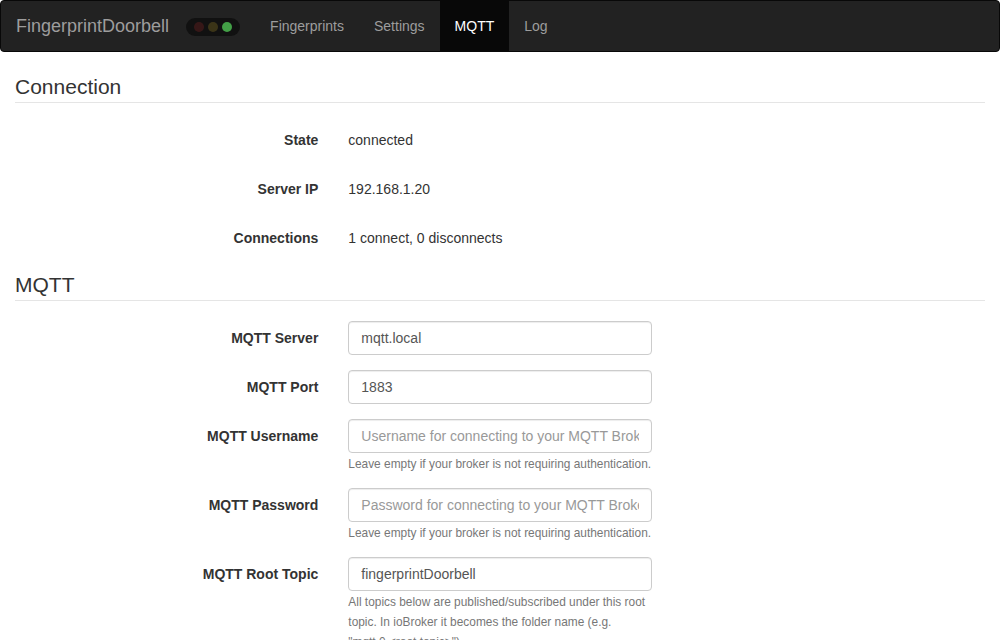
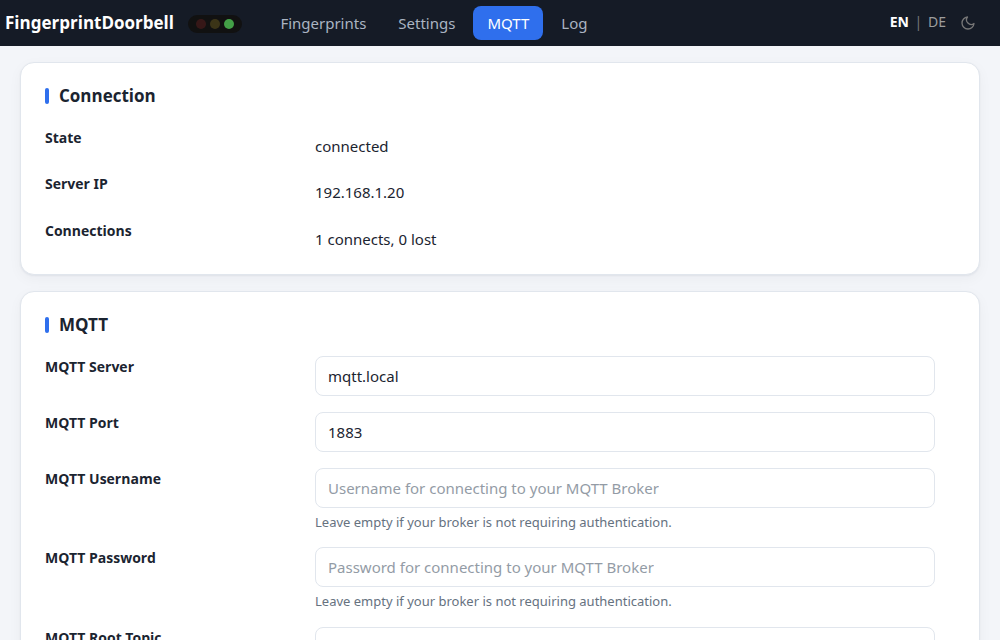
v0.13.0: new screenshots, sensor dot color on the Log page
Adds tools/screenshots.py, which renders the pages with sample values in
headless Chromium and writes the README screenshots and gallery
thumbnails. The big sensor dot on the Log page shows the state color
again (it took the text color with the new style). README describes the
new page layout.

diff --git a/data/style.css b/data/style.css
@@ -146,6 +146,8 @@ input[type="file"]::file-selector-button:hover { border-color: var(--accent); }
 .alert { border: 1px solid var(--border); border-left-width: 4px; border-radius: 10px; padding: 12px 16px; margin: 16px auto; background: var(--card); color: var(--text); }
 .alert-custom { background: var(--accent-soft); border-color: var(--accent); }
 .alert-success { border-left-color: var(--ok); } .alert-warning { border-left-color: var(--warn); } .alert-danger { border-left-color: var(--danger); } .alert-info { border-left-color: var(--info); }
+/* big sensor state on the Log page: the dot has the color of the state */
+.alert-success #sensorDot { background: var(--ok) !important; } .alert-warning #sensorDot { background: var(--warn) !important; } .alert-danger #sensorDot { background: var(--danger) !important; }
 .table { color: var(--text); margin-bottom: 12px; }
 .table > thead > tr > th { border-bottom: 1px solid var(--border); color: var(--muted); font-size: 12px; font-weight: 600; text-transform: uppercase; letter-spacing: .04em; }
 .table > tbody > tr > td, .table > tbody > tr > th { border-top: 1px solid var(--border); padding: 9px 8px; }

diff --git a/tools/screenshots.py b/tools/screenshots.py
@@ -1,0 +1,151 @@
+#!/usr/bin/env python3
+"""Creates the screenshots of the web interface for the README (doc/images/web-*.png and thumb-*.png).
+
+The pages in data/ are rendered with sample values instead of the %PLACEHOLDERS% of the firmware and
+photographed with headless Chromium, so no device is needed.
+
+Usage (from the repository root):  python3 tools/screenshots.py [--lang de] [--theme dark] [--out DIR]
+"""
+import argparse, functools, gzip, http.server, os, re, shutil, subprocess, sys, tempfile, threading
+
+from PIL import Image
+
+LIGHT = ('<span id="sensorLight" style="display:inline-flex;align-items:center;vertical-align:middle;margin-left:12px;'
+         'padding:4px 6px;border-radius:9px;background:#111">' +
+         ''.join('<span style="display:inline-block;width:10px;height:10px;border-radius:5px;margin:0 2px;background:%s;opacity:%s"></span>'
+                 % (c, o) for c, o in (('#e53935', '.18'), ('#fdd835', '.18'), ('#43a047', '1'))) + '</span>')
+
+def options(values, selected):
+    return ''.join('<option value="%s"%s>%s</option>' % (v, ' selected' if v == selected else '', label) for v, label in values)
+
+GPIO = [(str(p), 'GPIO %d' % p) for p in (4, 13, 16, 17, 18, 19, 21, 22, 23, 25, 26, 27, 32, 33)]
+
+SAMPLE = dict(
+    HOSTNAME='FingerprintDoorbell', SENSOR_LIGHT=LIGHT, VERSIONINFO='', UPTIME='Uptime 2 days 04:12:33',
+    FINGER_COUNT='3',
+    FINGERLIST='<option value="1" selected data-name="Alice" data-days="127" data-from="0" data-to="1440">1 - Alice</option>'
+               '<option value="2" data-name="Bob#" data-days="127" data-from="0" data-to="1440">2 - Bob#</option>'
+               '<option value="5" data-name="Cleaner" data-days="4" data-from="480" data-to="720">5 - Cleaner [We 08:00-12:00]</option>',
+    SENSOR_STATE='connected (since 2 h, 0 losses)', SENSOR_ALERT='success',
+    IP_ADDRESS='192.168.1.57', MAC_ADDRESS='24:6F:28:AA:BB:CC', GATEWAY='192.168.1.1', DNS_SERVER='192.168.1.1',
+    SSID='IoT', BSSID='9C:A2:F4:11:22:33', WIFI_CHANNEL='6', RSSI='-61 dBm', WIFI_LOST='0',
+    WIFI_REASON='- (0 disconnect events)', MQTT_SERVER='mqtt.local', MQTT_SERVER_IP='192.168.1.20',
+    MQTT_STATE='connected', MQTT_STATS='1 connects, 0 lost', CHIP='ESP32-D0WDQ6 rev 1', CPU='240 MHz',
+    CHIP_TEMP='48 °C', FLASH_SIZE='4194304', FREE_HEAP='182344', RESET_REASON='Software',
+    EVENTLIST='<tr><td>2026-10-28 14:02:11</td><td>Match</td><td>#1</td><td>Alice, confidence 187</td></tr>'
+              '<tr><td>2026-10-28 13:40:52</td><td>Ring</td><td></td><td></td></tr>'
+              '<tr><td>2026-10-28 09:12:40</td><td>Access denied</td><td>#5</td><td>Cleaner: outside of allowed time window, confidence 143</td></tr>'
+              '<tr><td>2026-10-28 07:55:01</td><td>Boot</td><td></td><td>firmware 0.13.0</td></tr>',
+    LOCKOUT_STATUS='<span class="label label-success">No lockout</span> 0 recent failed attempts',
+    LOGMESSAGES_FULL='[28.10.2026 07:55:01]: Started<br>[28.10.2026 07:55:12]: WiFi connected (11 s)<br>'
+                     '[28.10.2026 07:55:13]: MQTT connected<br>[28.10.2026 14:02:11]: Match: Alice (ID 1, confidence 187)<br>',
+    WEB_PASSWORD='********', NTP_SERVER='pool.ntp.org', TIMEZONE='CET-1CEST,M3.5.0,M10.5.0/3',
+    TIMEZONE_OPTIONS=options([('Europe/Berlin', 'Europe/Berlin'), ('Europe/Vienna', 'Europe/Vienna'), ('custom', 'Custom (POSIX string)')], 'Europe/Berlin'),
+    LOCAL_TIME='2026-10-28 14:05:00', NIGHT_ENABLED='checked', NIGHT_START='22:00', NIGHT_END='06:00',
+    NIGHT_STATUS='not active now', FAIL_MAX='5', FAIL_WINDOW='60', LOCKOUT_TIME='300', RING_COOLDOWN='5',
+    RADAR_ENABLED='', RADAR_STATUS='disabled', RADAR_HIGH_SELECTED='selected', RADAR_LED_WAKE='',
+    RADAR_PIN_OPTIONS=options([(str(p), 'GPIO %d' % p) for p in (25, 26, 27, 32, 33, 34, 35)], '32'),
+    GPIO_RX_OPTIONS=options(GPIO, '16'), GPIO_TX_OPTIONS=options(GPIO, '17'), GPIO_TOUCH_OPTIONS=options([('5', 'GPIO 5')] + GPIO, '5'),
+    GPIO_BELL_OPTIONS=options(GPIO, '19'), GPIO_OPENER_OPTIONS=options(GPIO, '23'),
+    TOUCH_RING_ACTIVE_COLOR_2='selected', TOUCH_RING_ACTIVE_SEQUENCE_1='checked', SCAN_COLOR_1='selected', MATCH_COLOR_3='selected',
+    MQTT_PORT='1883', MQTT_ROOTTOPIC='fingerprintDoorbell', MQTT_CLIENTID='FingerprintDoorbell', MQTT_KEEPALIVE='15',
+    HA_DISCOVERY='checked', MQTT_RETAIN='', MQTT_PUBLISHLOG='checked', PAYLOAD_ON='on', PAYLOAD_OFF='off',
+    T_LWT='LWT', T_RING='ring', T_MATCHID='matchId', T_MATCHNAME='matchName', T_MATCHCONF='matchConfidence',
+    T_LASTLOG='lastLogMessage', T_IGNORERING='ignoreTouchRing', T_LEDRING='ledRing', T_OPENDOOR='openDoor',
+    WIFI_SSID='IoT', WIFI_PASSWORD='********')
+
+# answers of the device for the status requests of the pages
+FETCH_STUB = '''<script>
+window.fetch = function (url) {
+  var data = {};
+  if (String(url).indexOf('/sensor/status') === 0)
+    data = { state: 'green', text: 'connected (since 2 h, 0 losses)', pin: false, ignore: false, led: true, color: 2, seq: 1, reason: 'idle, waiting for a touch' };
+  else if (String(url).indexOf('/serial/log') === 0)
+    data = { next: 0, more: false, text: '' };
+  else
+    return new Promise(function () {});
+  return Promise.resolve({ json: function () { return Promise.resolve(data); } });
+};
+window.EventSource = function () { this.addEventListener = function () {}; };
+</script>'''
+
+PAGES = [  # page, published name, window width, crop height of the thumbnail
+    ('index', 'fingerprints', 1000, 640),
+    ('settings', 'settings', 1000, 640),
+    ('mqtt', 'mqtt', 1000, 640),
+    ('log', 'log', 1000, 640),
+    ('wificonfig', 'wificonfig', 480, 0),
+]
+
+
+def render(src, dst, lang, theme, version):
+    values = dict(SAMPLE, LANG=lang, VERSIONINFO=version)
+    for page, _, _, _ in PAGES:
+        html = open(os.path.join(src, page + '.html'), encoding='utf-8').read()
+        html = re.sub(r'%([A-Z0-9_]+)%', lambda m: values.get(m.group(1), ''), html)
+        html = html.replace('<head>', '<head>' + FETCH_STUB, 1)
+        if theme:
+            html = html.replace('<head>', '<head><script>try{localStorage.setItem("theme","%s")}catch(e){}</script>' % theme, 1)
+        open(os.path.join(dst, page + '.html'), 'w', encoding='utf-8').write(html)
+    for name in ('i18n.js', 'style.css'):
+        if os.path.exists(os.path.join(src, name)):
+            shutil.copy(os.path.join(src, name), dst)
+    with gzip.open(os.path.join(src, 'bootstrap.min.css.gz'), 'rb') as f:
+        open(os.path.join(dst, 'bootstrap.min.css'), 'wb').write(f.read())
+
+
+def trim(path):
+    """cuts the empty area below the page (same color as the bottom row)"""
+    image = Image.open(path).convert('RGB')
+    width, height = image.size
+    pixels = image.load()
+    background = pixels[width // 2, height - 1]
+    bottom = height - 1
+    while bottom > 0 and all(pixels[x, bottom] == background for x in range(0, width, 4)):
+        bottom -= 1
+    image.crop((0, 0, width, min(height, bottom + 16))).save(path)
+
+
+def main():
+    parser = argparse.ArgumentParser()
+    parser.add_argument('--lang', default='en', choices=['en', 'de'])
+    parser.add_argument('--theme', default='light', choices=['light', 'dark'])
+    parser.add_argument('--out', default='doc/images')
+    args = parser.parse_args()
+
+    version = re.search(r'VersionInfo = "([^"]+)"', open('src/main.cpp').read()).group(1)
+    chromium = shutil.which('chromium') or shutil.which('chromium-browser') or shutil.which('google-chrome')
+    if not chromium:
+        sys.exit('Chromium is needed for the screenshots')
+
+    work = tempfile.mkdtemp()
+    render('data', work, args.lang, args.theme, version)
+    class QuietHandler(http.server.SimpleHTTPRequestHandler):
+        def log_message(self, *args):
+            pass
+    handler = functools.partial(QuietHandler, directory=work)
+    server = http.server.ThreadingHTTPServer(('127.0.0.1', 0), handler)
+    threading.Thread(target=server.serve_forever, daemon=True).start()
+    os.makedirs(args.out, exist_ok=True)
+    try:
+        for page, name, width, thumb in PAGES:
+            target = os.path.abspath(os.path.join(args.out, 'web-%s.png' % name))
+            subprocess.run([chromium, '--headless', '--disable-gpu', '--hide-scrollbars', '--no-sandbox',
+                            '--window-size=%d,2600' % width, '--virtual-time-budget=4000', '--screenshot=' + target,
+                            'http://127.0.0.1:%d/%s.html' % (server.server_port, page)],
+                           check=True, stdout=subprocess.DEVNULL, stderr=subprocess.DEVNULL)
+            trim(target)
+            if thumb:
+                # all thumbnails get the same height, a short page is filled up with the page background
+                image = Image.open(target).convert('RGB')
+                canvas = Image.new('RGB', (image.size[0], thumb), image.getpixel((image.size[0] // 2, image.size[1] - 1)))
+                canvas.paste(image.crop((0, 0, image.size[0], min(thumb, image.size[1]))), (0, 0))
+                canvas.save(os.path.join(args.out, 'thumb-%s.png' % name))
+            print(target)
+    finally:
+        server.shutdown()
+        shutil.rmtree(work)
+
+
+if __name__ == '__main__':
+    main()

diff --git a/README.md b/README.md
@@ -165,21 +165,22 @@ Enter SSID, password and host name and save. The device restarts and connects to
 The device never goes back to configuration mode on its own, even if the WiFi is unavailable; it keeps trying to connect. To enter configuration mode again, keep your finger on the sensor while powering up the device.
 
 ## Web interface
-The menu has four pages. The traffic light next to the device name shows the state of the fingerprint sensor on every page (green ok, yellow does not answer / reconnecting, red not connected). **EN | DE** on the right switches the language of the web interface between English and German.
+The menu has four pages. The traffic light next to the device name shows the state of the fingerprint sensor on every page (green ok, yellow does not answer / reconnecting, red not connected). On the right, **EN | DE** switches the language between English and German and the moon/sun icon switches between light and dark mode. Help texts are behind the small info icons ("i").
 
 ### Fingerprints
+<img src="doc/images/web-fingerprints.png" width="600">
 
-- **Manage fingerprints**: rename or delete fingers, set **access times** of the selected finger (always, only on certain weekdays/times, or disabled). Outside the allowed times the finger is rejected and `accessDenied` is published instead of a match.
-- **Add/Replace fingerprint**: choose a memory slot (1-200, also used as ID in MQTT) and an optional name, then "Start enrollment". Place and lift your finger 5 times; the status box at the top tells you what to do. Don't vary the position too much, otherwise the 5 scans cannot be combined.
-- **Backup & restore**: downloads all fingerprints (sensor templates), names and access times as a file and restores them, also onto a new sensor. A single fingerprint can be exported with the "Export" button of the fingerprint list; importing it adds it to the next free slot ("Add to free slots"), so nothing on the sensor is overwritten. Keep the files safe, they contain your fingerprint data.
+- **List and details side by side**: select a finger to rename, export or delete it and to set its **access times** (always, only on certain weekdays/times, or disabled). Outside the allowed times the finger is rejected and `accessDenied` is published instead of a match.
+- **Add / replace** (bar at the top): choose a memory slot (1-200, also used as ID in MQTT) and an optional name, then "Start enrollment". Place and lift your finger 5 times; the status box at the top tells you what to do. Don't vary the position too much, otherwise the 5 scans cannot be combined.
+- **Backup & restore**: downloads all fingerprints (sensor templates), names and access times as a file and restores them, also onto a new sensor. When restoring, choose whether the same slots are overwritten, the fingerprints are added to free slots, or everything is deleted first. A single fingerprint exported with "Export" goes to the next free slot, so nothing on the sensor is overwritten. Keep the files safe, they contain your fingerprint data.
 - **Sensor**: sensor state, reconnect, LED ring and touch ring switches, "Pair a new sensor" and "Delete all fingerprints".
 
 ### Settings
-<img src="doc/images/web-settings.png" width="500">
+<img src="doc/images/web-settings.png" width="600">
 
-Web password (user name "admin"), NTP server and time zone, and in collapsible sections: LED ring colors and night mode (with a live view of the ring and the touch ring pin), security (failed attempts, lockout time, ring cooldown), radar sensor and GPIO pins. Saving does not restart the device, except new GPIO pins, which are used after a restart. "Maintenance" holds the firmware update and the factory reset.
+Tabs with one Save button for all of them: **General** (web password, user name "admin", NTP server, time zone), **LED ring & night mode** (colors, night mode, live view of the ring and the touch ring pin), **Security** (failed attempts, lockout time, ring cooldown), **Radar sensor**, **GPIO pins** and **Maintenance** (firmware update, factory reset). Saving does not restart the device, except new GPIO pins, which are used after a restart.
 
-### 📡 MQTT
+### MQTT
 <img src="doc/images/web-mqtt.png" width="600">
 
 Connection state, broker settings, root topic, Home Assistant discovery and enrollment over MQTT. Under "Advanced options": client ID, keepalive, on/off payloads (e.g. `true`/`false` for ioBroker), retain and log publishing. Under "Topic names": every sub topic.
@@ -188,10 +189,11 @@ Connection state, broker settings, root topic, Home Assistant discovery and enro
 > **The client ID must be unique on your broker.** Two devices with the same client ID kick each other off the broker every few seconds.
 
 ### Log
+<img src="doc/images/web-log.png" width="600">
 
 Large sensor state with reconnect button, event history (last 30 events, kept after a restart), lockout state, live system log, a serial monitor (everything the firmware writes to the serial port, no USB cable needed) and network/device information (IP, WiFi, RSSI, connection losses, MQTT, chip, memory, reset reason).
 
-# MQTT
+# 📡 MQTT
 The root topic (default `fingerprintDoorbell`), all sub topics below and the on/off payloads can be changed on the MQTT page. Defaults:
 
 | Topic | Direction | Values |

diff --git a/CLAUDE.md b/CLAUDE.md
@@ -7,6 +7,7 @@ ESP32 firmware (Arduino framework, PlatformIO) for a combined fingerprint reader
 - `origin` = Kalored/FingerprintDoorbell-NG (this fork), `upstream` = geronet1/FingerprintDoorbell. The original project is frickelzeugs/FingerprintDoorbell (unmaintained, many open issues worth checking).
 - Work happens on `main`. Changes are documented in the "Changes in x.y" list at the top of `README.md`. The list is chronological: add a new version at the end, after the newest entry (the user reordered it by hand once). The changelog is the last section of the README ("📝 Changelog"). Only the newest version is shown open (`### x.y · Headline (latest)`); when adding one, turn the previous latest into `<details><summary><b>x.y</b> · Headline</summary>` like the older ones, and update the "New in x.y" line in the note box at the top. Every version gets a short headline with its most important change.
 - Releases: build both images, copy them to `builds/vX.Y.Z/`, then the user runs `tools/release.sh X.Y.Z` (creating releases with `gh` is blocked for Claude). The script takes the release notes from the README changelog.
+- README screenshots (`doc/images/web-*.png`, `thumb-*.png` for the gallery): `python3 tools/screenshots.py` renders the pages of `data/` with sample values in headless Chromium (no device needed). New placeholders need a sample value in `SAMPLE` there, otherwise they render empty. Update the screenshots when the look of the pages changes.
 - Bump `VersionInfo` in `src/main.cpp` on releases. It is shown in the web UI and sent as `sw_version` in HA discovery.
 
 ## Build
@@ -32,7 +33,7 @@ pio run -t buildfs      # web UI (data/) -> spiffs.bin
 - `src/AccessControl.*`: lockout after failed attempts (millis based) and per-finger access schedules (NVS namespace `fingerAccess`).
 - `src/BackupManager.*`: backup/restore file format (`/backup.fpdb`, `/restore.fpdb` on SPIFFS).
 - `src/SettingsManager.*`: `WifiSettings`/`AppSettings` stored in NVS (`Preferences`). A new setting needs four places: the struct default, `load`, `save`, and the `/settings` handler plus a `processor()` placeholder.
-- `data/*.html`: pages served from SPIFFS (`index` fingerprints, sensor actions, backup; `settings` general/LED/security/radar, firmware update, factory reset; `mqtt` connection state, broker/topics/HA; `log` sensor status, events, system log, network/device info; `wificonfig` AP mode). There is no system page anymore, `/system` redirects to `/log`. Each page posts to its own route and must only touch its own settings fields. `%PLACEHOLDER%` is replaced by `processor()`. They use the local `bootstrap.min.css`; do not add CDN links, because the device must work without internet.
+- `data/*.html`: pages served from SPIFFS (`index` fingerprints, sensor actions, backup; `settings` general/LED/security/radar, firmware update, factory reset; `mqtt` connection state, broker/topics/HA; `log` sensor status, events, system log, network/device info; `wificonfig` AP mode). There is no system page anymore, `/system` redirects to `/log`. Each page posts to its own route and must only touch its own settings fields. `%PLACEHOLDER%` is replaced by `processor()`. They use the local `bootstrap.min.css` plus `data/style.css` (the look since 0.13.0: cards, tabs, light/dark colors as CSS variables, served at `/style.css`, not template processed); do not add CDN links, because the device must work without internet.
 
 ## Pitfalls (already caused bugs here)
 
